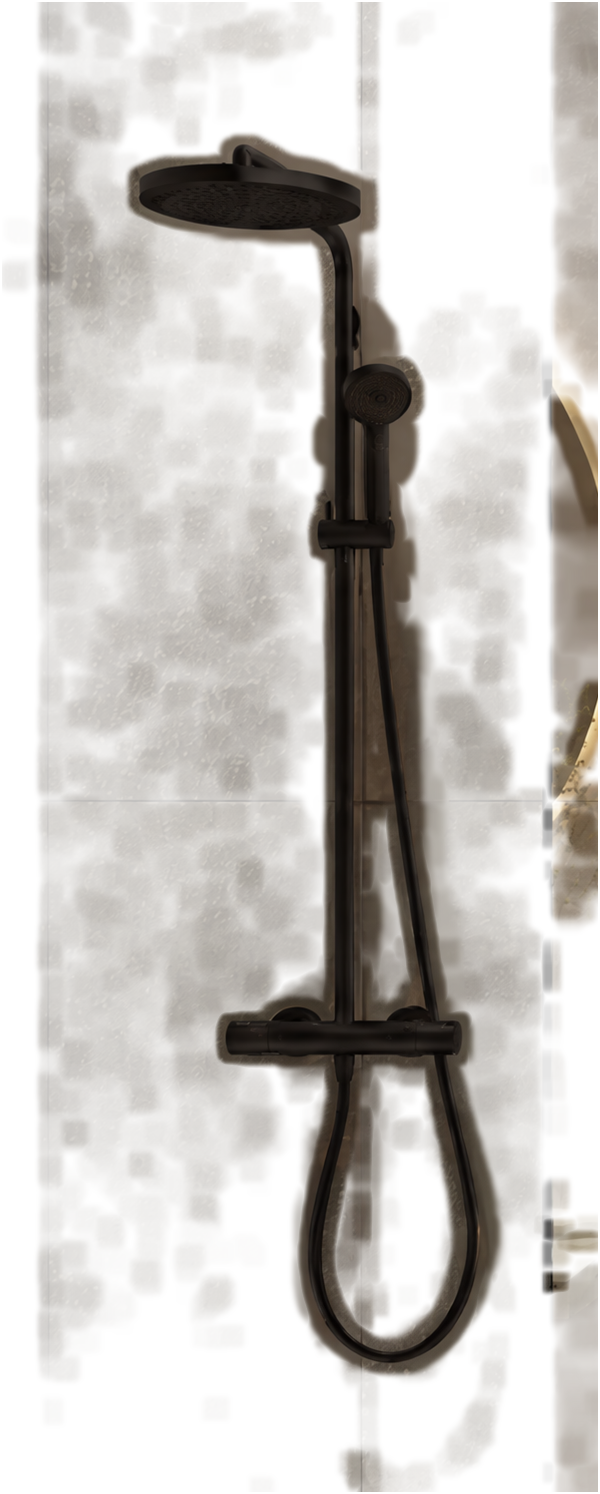
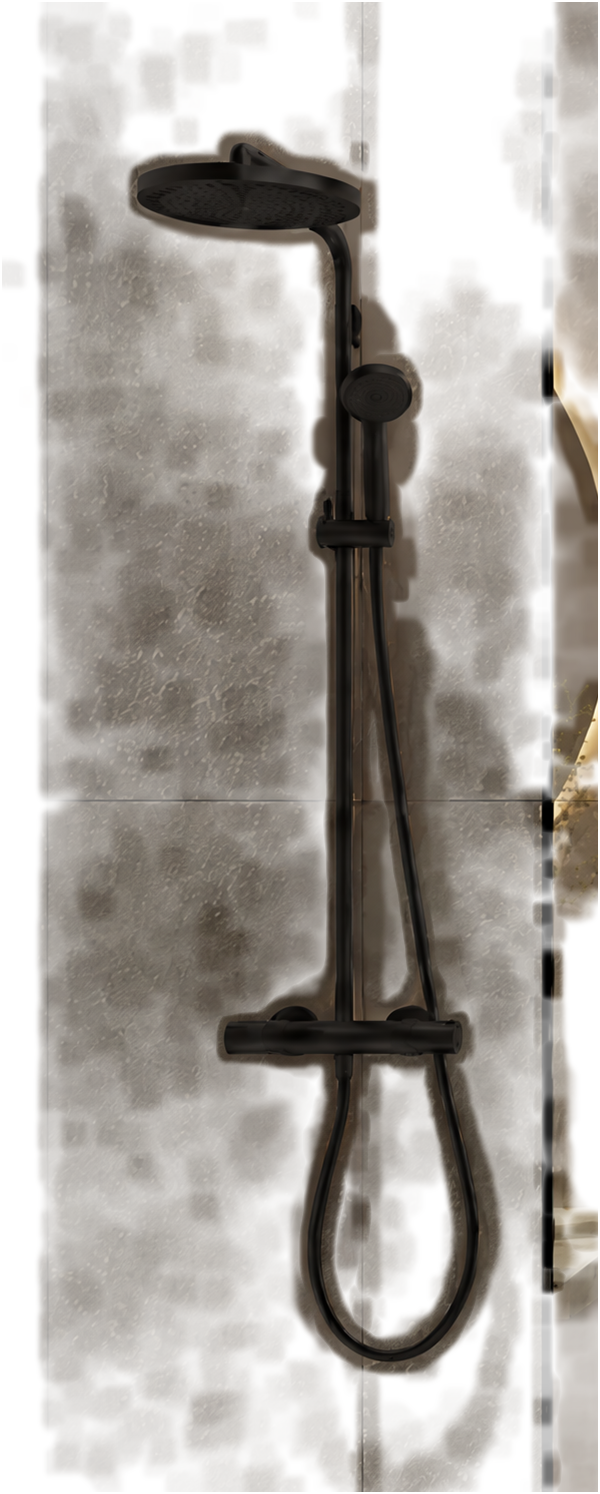
Sifón a prepad vane vo farbe batérií
Čierna batéria je teraz prefarbenie sifónu a krytky prepadu na pomocnom
baterie-black-zaklad (pôvodná generácia čiernych batérií), bronz z nej.
Batérie majú dva nové obdĺžniky v roi, všetky dočistenia na obkladoch
sú pregenerované.

diff --git a/demo/index.html b/demo/index.html
@@ -120,7 +120,7 @@
 
 </div>
 
-<script>/*DATA*/window.KUPELNA = {"sirka":3312,"vyska":2484,"povodny":"img/povodny.jpg","model":"gpt-image-2-5-flare-image-to-image","rozlisenie":"4K","kreditovZaObrazok":16,"kategorie":[{"id":"obklad","nazov":"Obklad stien","typ":"podklad","z":0,"moznosti":[{"id":"povodny","nazov":"Pôvodný obklad","kratko":"Pôvodný obklad","detail":"Svetlý kameň · podľa vizualizácie ST1","nahlad":"img/nahlad-obklad-povodny.jpg"},{"id":"obklad-calacatta","nazov":"Florim I CLASSICI Calacatta Gold","kratko":"Calacatta Gold","detail":"Florim I Classici · gres 1200 × 2400 mm","nahlad":"img/ref-obklad-calacatta-0.jpg","obrazok":"img/obklad-calacatta.jpg"},{"id":"obklad-graphit","nazov":"Florim STONE LIFE Graphit","kratko":"Stone Life Graphit","detail":"Florim Stone Life · gres 1200 × 2400 mm","nahlad":"img/ref-obklad-graphit-0.jpg","obrazok":"img/obklad-graphit.jpg"},{"id":"obklad-travertine","nazov":"Florim AUTHENTIC LUXE Gold Travertine","kratko":"Gold Travertine","detail":"Florim Authentic Luxe · gres 1200 × 2400 mm","nahlad":"img/ref-obklad-travertine-0.jpg","obrazok":"img/obklad-travertine.jpg"}]},{"id":"dlazba","nazov":"Dlažba","typ":"plocha","z":1,"moznosti":[{"id":"povodny","nazov":"Pôvodná dlažba","kratko":"Pôvodná dlažba","detail":"Svetlý kameň · podľa vizualizácie ST1","nahlad":"img/nahlad-dlazba-povodny.jpg","vrstvy":{"*":[{"src":"img/dlazba-povodny-0.png","x":36,"y":2084,"w":2289,"h":400}]}},{"id":"dlazba-graphite","nazov":"Florim STONE LIFE Graphite 600x600","kratko":"Stone Life Graphite","detail":"Florim Stone Life · mat 600 × 600 mm","nahlad":"img/ref-dlazba-graphite-0.jpg","vrstvy":{"*":[{"src":"img/dlazba-graphite-0.png","x":36,"y":2084,"w":2289,"h":400}]}},{"id":"dlazba-amani","nazov":"Florim TIMELESS Amani Grey 600x600","kratko":"Timeless Amani Grey","detail":"Florim Timeless · mat 600 × 600 mm","nahlad":"img/ref-dlazba-amani-0.jpg","vrstvy":{"*":[{"src":"img/dlazba-amani-0.png","x":114,"y":2084,"w":2208,"h":400}]}}]},{"id":"baterie","nazov":"Batérie","typ":"objekt","z":3,"moznosti":[{"id":"povodny","nazov":"Chróm (pôvodné)","kratko":"Chróm (pôvodné)","detail":"Hansgrohe chróm · podľa vizualizácie ST1","nahlad":"img/nahlad-baterie-povodny.jpg"},{"id":"baterie-black","nazov":"Hansgrohe Black matt (Pulsify S Showerpipe 260, Tecturis S 240 Fine, Ecostat Element)","kratko":"Black matt","detail":"Hansgrohe 24237670 · 73372670 · 13347670","nahlad":"img/ref-baterie-black-0.jpg","vrstvy":{"povodny":[{"src":"img/baterie-black--povodny-0.png","x":494,"y":395,"w":600,"h":1494},{"src":"img/baterie-black--povodny-1.png","x":1538,"y":1344,"w":235,"h":239},{"src":"img/baterie-black--povodny-2.png","x":2217,"y":1334,"w":500,"h":754}],"obklad-calacatta":[{"src":"img/baterie-black--obklad-calacatta-0.png","x":494,"y":395,"w":600,"h":1494},{"src":"img/baterie-black--obklad-calacatta-1.png","x":1538,"y":1344,"w":235,"h":239},{"src":"img/baterie-black--obklad-calacatta-2.png","x":2217,"y":1334,"w":500,"h":754}],"obklad-graphit":[{"src":"img/baterie-black--obklad-graphit-0.png","x":494,"y":395,"w":600,"h":1494},{"src":"img/baterie-black--obklad-graphit-1.png","x":1538,"y":1344,"w":235,"h":239},{"src":"img/baterie-black--obklad-graphit-2.png","x":2217,"y":1334,"w":500,"h":754}],"obklad-travertine":[{"src":"img/baterie-black--obklad-travertine-0.png","x":494,"y":395,"w":600,"h":1494},{"src":"img/baterie-black--obklad-travertine-1.png","x":1538,"y":1344,"w":235,"h":239},{"src":"img/baterie-black--obklad-travertine-2.png","x":2217,"y":1334,"w":500,"h":754}]}},{"id":"baterie-bronze","nazov":"Hansgrohe Brushed bronze (Pulsify S Showerpipe 260, Tecturis S 240 Fine, Ecostat Element)","kratko":"Brushed bronze","detail":"Hansgrohe 24237140 · 73372140 · 13347140","nahlad":"img/ref-baterie-bronze-0.jpg","vrstvy":{"povodny":[{"src":"img/baterie-bronze--povodny-0.png","x":494,"y":395,"w":600,"h":1494},{"src":"img/baterie-bronze--povodny-1.png","x":1538,"y":1344,"w":235,"h":239},{"src":"img/baterie-bronze--povodny-2.png","x":2217,"y":1334,"w":500,"h":754}],"obklad-calacatta":[{"src":"img/baterie-bronze--obklad-calacatta-0.png","x":494,"y":395,"w":600,"h":1494},{"src":"img/baterie-bronze--obklad-calacatta-1.png","x":1538,"y":1344,"w":235,"h":239},{"src":"img/baterie-bronze--obklad-calacatta-2.png","x":2217,"y":1334,"w":500,"h":754}],"obklad-graphit":[{"src":"img/baterie-bronze--obklad-graphit-0.png","x":494,"y":395,"w":600,"h":1494},{"src":"img/baterie-bronze--obklad-graphit-1.png","x":1538,"y":1344,"w":235,"h":239},{"src":"img/baterie-bronze--obklad-graphit-2.png","x":2217,"y":1334,"w":500,"h":754}],"obklad-travertine":[{"src":"img/baterie-bronze--obklad-travertine-0.png","x":494,"y":395,"w":600,"h":1494},{"src":"img/baterie-bronze--obklad-travertine-1.png","x":1538,"y":1344,"w":235,"h":239},{"src":"img/baterie-bronze--obklad-travertine-2.png","x":2217,"y":1334,"w":500,"h":754}]}}]},{"id":"umyvadlo","nazov":"Umývadlo","typ":"objekt","z":4,"moznosti":[{"id":"povodny","nazov":"Pôvodné obdĺžnikové","kratko":"Pôvodné obdĺžnikové","detail":"Na dosku · podľa vizualizácie ST1","nahlad":"img/nahlad-umyvadlo-povodny.jpg"},{"id":"umyvadlo-savoy","nazov":"Laufen Savoy 550x380 oválne","kratko":"Savoy oválne","detail":"Laufen H8129440001121 · 550 × 380 mm","nahlad":"img/ref-umyvadlo-savoy-0.jpg","vrstvy":{"povodny":[{"src":"img/umyvadlo-savoy--povodny-0.png","x":1322,"y":1364,"w":700,"h":376}],"obklad-calacatta":[{"src":"img/umyvadlo-savoy--obklad-calacatta-0.png","x":1322,"y":1364,"w":700,"h":376}],"obklad-graphit":[{"src":"img/umyvadlo-savoy--obklad-graphit-0.png","x":1322,"y":1364,"w":700,"h":376}],"obklad-travertine":[{"src":"img/umyvadlo-savoy--obklad-travertine-0.png","x":1322,"y":1364,"w":700,"h":376}]}},{"id":"umyvadlo-okruhle","nazov":"Laufen living SQ 380x380 okrúhle","kratko":"living SQ okrúhle","detail":"Laufen H8114350001121 · Ø 380 mm","nahlad":"img/ref-umyvadlo-okruhle-0.jpg","vrstvy":{"povodny":[{"src":"img/umyvadlo-okruhle--povodny-0.png","x":1322,"y":1364,"w":700,"h":376}],"obklad-calacatta":[{"src":"img/umyvadlo-okruhle--obklad-calacatta-0.png","x":1322,"y":1364,"w":700,"h":376}],"obklad-graphit":[{"src":"img/umyvadlo-okruhle--obklad-graphit-0.png","x":1322,"y":1364,"w":700,"h":376}],"obklad-travertine":[{"src":"img/umyvadlo-okruhle--obklad-travertine-0.png","x":1322,"y":1364,"w":700,"h":376}]}}]},{"id":"zlab","nazov":"Sprchový žľab","typ":"objekt","z":2,"moznosti":[{"id":"povodny","nazov":"FlowLine Zero Nerez","kratko":"FlowLine Zero Nerez","detail":"Kaldewei FlowLine Zero · nerez","nahlad":"img/nahlad-zlab-povodny.jpg"},{"id":"zlab-grafit","nazov":"Kaldewei FlowLine Zero Grafit","kratko":"FlowLine Zero Grafit","detail":"Kaldewei FlowLine Zero · grafit","nahlad":"img/ref-zlab-grafit-0.jpg","vrstvy":{"*":[{"src":"img/zlab-grafit-0.png","x":462,"y":2096,"w":632,"h":107}]}}]}]};/*/DATA*/</script>
+<script>/*DATA*/window.KUPELNA = {"sirka":3312,"vyska":2484,"povodny":"img/povodny.jpg","model":"gpt-image-2-5-flare-image-to-image","rozlisenie":"4K","kreditovZaObrazok":16,"kategorie":[{"id":"obklad","nazov":"Obklad stien","typ":"podklad","z":0,"moznosti":[{"id":"povodny","nazov":"Pôvodný obklad","kratko":"Pôvodný obklad","detail":"Svetlý kameň · podľa vizualizácie ST1","nahlad":"img/nahlad-obklad-povodny.jpg"},{"id":"obklad-calacatta","nazov":"Florim I CLASSICI Calacatta Gold","kratko":"Calacatta Gold","detail":"Florim I Classici · gres 1200 × 2400 mm","nahlad":"img/ref-obklad-calacatta-0.jpg","obrazok":"img/obklad-calacatta.jpg"},{"id":"obklad-graphit","nazov":"Florim STONE LIFE Graphit","kratko":"Stone Life Graphit","detail":"Florim Stone Life · gres 1200 × 2400 mm","nahlad":"img/ref-obklad-graphit-0.jpg","obrazok":"img/obklad-graphit.jpg"},{"id":"obklad-travertine","nazov":"Florim AUTHENTIC LUXE Gold Travertine","kratko":"Gold Travertine","detail":"Florim Authentic Luxe · gres 1200 × 2400 mm","nahlad":"img/ref-obklad-travertine-0.jpg","obrazok":"img/obklad-travertine.jpg"}]},{"id":"dlazba","nazov":"Dlažba","typ":"plocha","z":1,"moznosti":[{"id":"povodny","nazov":"Pôvodná dlažba","kratko":"Pôvodná dlažba","detail":"Svetlý kameň · podľa vizualizácie ST1","nahlad":"img/nahlad-dlazba-povodny.jpg","vrstvy":{"*":[{"src":"img/dlazba-povodny-0.png","x":36,"y":2084,"w":2289,"h":400}]}},{"id":"dlazba-graphite","nazov":"Florim STONE LIFE Graphite 600x600","kratko":"Stone Life Graphite","detail":"Florim Stone Life · mat 600 × 600 mm","nahlad":"img/ref-dlazba-graphite-0.jpg","vrstvy":{"*":[{"src":"img/dlazba-graphite-0.png","x":36,"y":2084,"w":2289,"h":400}]}},{"id":"dlazba-amani","nazov":"Florim TIMELESS Amani Grey 600x600","kratko":"Timeless Amani Grey","detail":"Florim Timeless · mat 600 × 600 mm","nahlad":"img/ref-dlazba-amani-0.jpg","vrstvy":{"*":[{"src":"img/dlazba-amani-0.png","x":114,"y":2084,"w":2208,"h":400}]}}]},{"id":"baterie","nazov":"Batérie","typ":"objekt","z":3,"moznosti":[{"id":"povodny","nazov":"Chróm (pôvodné)","kratko":"Chróm (pôvodné)","detail":"Hansgrohe chróm · podľa vizualizácie ST1","nahlad":"img/nahlad-baterie-povodny.jpg"},{"id":"baterie-black","nazov":"Hansgrohe Black matt (Pulsify S Showerpipe 260, Tecturis S 240 Fine, Ecostat Element)","kratko":"Black matt","detail":"Hansgrohe 24237670 · 73372670 · 13347670","nahlad":"img/ref-baterie-black-0.jpg","vrstvy":{"povodny":[{"src":"img/baterie-black--povodny-0.png","x":494,"y":395,"w":600,"h":1494},{"src":"img/baterie-black--povodny-1.png","x":1538,"y":1314,"w":235,"h":277},{"src":"img/baterie-black--povodny-2.png","x":2217,"y":1314,"w":500,"h":774},{"src":"img/baterie-black--povodny-3.png","x":1571,"y":1659,"w":169,"h":292},{"src":"img/baterie-black--povodny-4.png","x":2929,"y":1848,"w":202,"h":228}],"obklad-calacatta":[{"src":"img/baterie-black--obklad-calacatta-0.png","x":494,"y":395,"w":600,"h":1494},{"src":"img/baterie-black--obklad-calacatta-1.png","x":1538,"y":1314,"w":235,"h":277},{"src":"img/baterie-black--obklad-calacatta-2.png","x":2217,"y":1314,"w":500,"h":774},{"src":"img/baterie-black--obklad-calacatta-3.png","x":1571,"y":1659,"w":169,"h":292},{"src":"img/baterie-black--obklad-calacatta-4.png","x":2929,"y":1848,"w":202,"h":228}],"obklad-graphit":[{"src":"img/baterie-black--obklad-graphit-0.png","x":494,"y":395,"w":600,"h":1494},{"src":"img/baterie-black--obklad-graphit-1.png","x":1538,"y":1314,"w":235,"h":277},{"src":"img/baterie-black--obklad-graphit-2.png","x":2217,"y":1314,"w":500,"h":774},{"src":"img/baterie-black--obklad-graphit-3.png","x":1571,"y":1659,"w":169,"h":292},{"src":"img/baterie-black--obklad-graphit-4.png","x":2929,"y":1848,"w":202,"h":228}],"obklad-travertine":[{"src":"img/baterie-black--obklad-travertine-0.png","x":494,"y":395,"w":600,"h":1494},{"src":"img/baterie-black--obklad-travertine-1.png","x":1538,"y":1314,"w":235,"h":277},{"src":"img/baterie-black--obklad-travertine-2.png","x":2217,"y":1314,"w":500,"h":774},{"src":"img/baterie-black--obklad-travertine-3.png","x":1571,"y":1659,"w":169,"h":292},{"src":"img/baterie-black--obklad-travertine-4.png","x":2929,"y":1848,"w":202,"h":228}]}},{"id":"baterie-bronze","nazov":"Hansgrohe Brushed bronze (Pulsify S Showerpipe 260, Tecturis S 240 Fine, Ecostat Element)","kratko":"Brushed bronze","detail":"Hansgrohe 24237140 · 73372140 · 13347140","nahlad":"img/ref-baterie-bronze-0.jpg","vrstvy":{"povodny":[{"src":"img/baterie-bronze--povodny-0.png","x":494,"y":395,"w":600,"h":1494},{"src":"img/baterie-bronze--povodny-1.png","x":1538,"y":1314,"w":235,"h":277},{"src":"img/baterie-bronze--povodny-2.png","x":2217,"y":1314,"w":500,"h":774},{"src":"img/baterie-bronze--povodny-3.png","x":1571,"y":1659,"w":169,"h":292},{"src":"img/baterie-bronze--povodny-4.png","x":2929,"y":1848,"w":202,"h":228}],"obklad-calacatta":[{"src":"img/baterie-bronze--obklad-calacatta-0.png","x":494,"y":395,"w":600,"h":1494},{"src":"img/baterie-bronze--obklad-calacatta-1.png","x":1538,"y":1314,"w":235,"h":277},{"src":"img/baterie-bronze--obklad-calacatta-2.png","x":2217,"y":1314,"w":500,"h":774},{"src":"img/baterie-bronze--obklad-calacatta-3.png","x":1571,"y":1659,"w":169,"h":292},{"src":"img/baterie-bronze--obklad-calacatta-4.png","x":2929,"y":1848,"w":202,"h":228}],"obklad-graphit":[{"src":"img/baterie-bronze--obklad-graphit-0.png","x":494,"y":395,"w":600,"h":1494},{"src":"img/baterie-bronze--obklad-graphit-1.png","x":1538,"y":1314,"w":235,"h":277},{"src":"img/baterie-bronze--obklad-graphit-2.png","x":2217,"y":1314,"w":500,"h":774},{"src":"img/baterie-bronze--obklad-graphit-3.png","x":1571,"y":1659,"w":169,"h":292},{"src":"img/baterie-bronze--obklad-graphit-4.png","x":2929,"y":1848,"w":202,"h":228}],"obklad-travertine":[{"src":"img/baterie-bronze--obklad-travertine-0.png","x":494,"y":395,"w":600,"h":1494},{"src":"img/baterie-bronze--obklad-travertine-1.png","x":1538,"y":1314,"w":235,"h":277},{"src":"img/baterie-bronze--obklad-travertine-2.png","x":2217,"y":1314,"w":500,"h":774},{"src":"img/baterie-bronze--obklad-travertine-3.png","x":1571,"y":1659,"w":169,"h":292},{"src":"img/baterie-bronze--obklad-travertine-4.png","x":2929,"y":1848,"w":202,"h":228}]}}]},{"id":"umyvadlo","nazov":"Umývadlo","typ":"objekt","z":4,"moznosti":[{"id":"povodny","nazov":"Pôvodné obdĺžnikové","kratko":"Pôvodné obdĺžnikové","detail":"Na dosku · podľa vizualizácie ST1","nahlad":"img/nahlad-umyvadlo-povodny.jpg"},{"id":"umyvadlo-savoy","nazov":"Laufen Savoy 550x380 oválne","kratko":"Savoy oválne","detail":"Laufen H8129440001121 · 550 × 380 mm","nahlad":"img/ref-umyvadlo-savoy-0.jpg","vrstvy":{"povodny":[{"src":"img/umyvadlo-savoy--povodny-0.png","x":1322,"y":1364,"w":700,"h":376}],"obklad-calacatta":[{"src":"img/umyvadlo-savoy--obklad-calacatta-0.png","x":1322,"y":1364,"w":700,"h":376}],"obklad-graphit":[{"src":"img/umyvadlo-savoy--obklad-graphit-0.png","x":1322,"y":1364,"w":700,"h":376}],"obklad-travertine":[{"src":"img/umyvadlo-savoy--obklad-travertine-0.png","x":1322,"y":1364,"w":700,"h":376}]}},{"id":"umyvadlo-okruhle","nazov":"Laufen living SQ 380x380 okrúhle","kratko":"living SQ okrúhle","detail":"Laufen H8114350001121 · Ø 380 mm","nahlad":"img/ref-umyvadlo-okruhle-0.jpg","vrstvy":{"povodny":[{"src":"img/umyvadlo-okruhle--povodny-0.png","x":1322,"y":1364,"w":700,"h":376}],"obklad-calacatta":[{"src":"img/umyvadlo-okruhle--obklad-calacatta-0.png","x":1322,"y":1364,"w":700,"h":376}],"obklad-graphit":[{"src":"img/umyvadlo-okruhle--obklad-graphit-0.png","x":1322,"y":1364,"w":700,"h":376}],"obklad-travertine":[{"src":"img/umyvadlo-okruhle--obklad-travertine-0.png","x":1322,"y":1364,"w":700,"h":376}]}}]},{"id":"zlab","nazov":"Sprchový žľab","typ":"objekt","z":2,"moznosti":[{"id":"povodny","nazov":"FlowLine Zero Nerez","kratko":"FlowLine Zero Nerez","detail":"Kaldewei FlowLine Zero · nerez","nahlad":"img/nahlad-zlab-povodny.jpg"},{"id":"zlab-grafit","nazov":"Kaldewei FlowLine Zero Grafit","kratko":"FlowLine Zero Grafit","detail":"Kaldewei FlowLine Zero · grafit","nahlad":"img/ref-zlab-grafit-0.jpg","vrstvy":{"*":[{"src":"img/zlab-grafit-0.png","x":462,"y":2096,"w":632,"h":107}]}}]}]};/*/DATA*/</script>
 <script>
 (function () {
   const D = window.KUPELNA;

diff --git a/CLAUDE.md b/CLAUDE.md
@@ -24,7 +24,7 @@ Vizualizácie kúpeľní (výmena obkladu, batérií, umývadiel…) cez kie.ai 
 - Zarovnanie: GPT 2.5 v 4K scénu preráma (zoom 0,5–2,5 %, posun až ~40 px), `Zarovnanie.Najdi` nájde mierku a posun voči vstupu úlohy; `Get-Aligned` s kategóriou doladí aj lokálny posun v každom obdĺžniku `roi`.
 - Batérie a umývadlo (`naObkladoch`): variant sa vygeneruje raz na pôvodnom obklade, jeho prvok sa vyreže a tie isté pixely sa vložia na každý obklad; AI podľa `promptNaObklad` len dočistí okolie (`<variant>@<obklad>`), `zostav` potom jadro prvku obnoví z pôvodnej generácie → rovnaká veľkosť a poloha na všetkých obkladoch. Pôvodné batérie sa pred vložením hrubo zamažú (maska z `prazdne-baterie`), inak ostanú priesvitné zvyšky. Prvok sa vyreže rozdielom voči `prazdny`; biele umývadlo na svetlej stene sa farbou oddeliť nedá, preto ho AI natrie na zeleno (`promptKluc`, `<variant>#kluc`). Okrajové pixely prvku sa pred vložením prefarbia z pozadia pôvodného obkladu na pozadie nového (`Prefarbi`; pri batériách pixel po pixeli podľa `prazdne-baterie`), inak AI okolo bronzu nechá svetlú auru. Okraj misy pre `stlpec` sa hľadá v maske prvku, nie v rozdiele (ten zachytí aj prekreslenú stenu).
 - Obklad nesmie meniť policu – Graphit raz „zapustil“ umývadlo do police a na ostatných umývadlách potom ostal obdĺžnikový obrys; prompt obkladov to teraz výslovne zakazuje. Pri problémoch s jedným obkladom stačí `-Ids obklad-x,*@obklad-x -Force`.
-- Bronzové batérie sú prefarbené čierne (`zVariantu`). Sprcha v ST1 je Pulsify S 260 chróm → čierna/bronz sa iba prefarbí. Umývadlá majú v prompte rozmer voči pôvodnému Laufen living SQ 600×340 mm (bez toho majú všetky rovnakú šírku ako pôvodné).
+- Bronzové batérie sú prefarbené čierne (`zVariantu`). Sprcha v ST1 je Pulsify S 260 chróm → čierna/bronz sa iba prefarbí. K batériám patrí aj sifón pod policou a krytka prepadu vane (vlastné obdĺžniky v `roi`), v katalógu nie sú, farba sa len zjednocuje s batériami: `baterie-black` = prefarbenie sifónu a prepadu na pomocnom `baterie-black-zaklad` (pôvodná generácia čiernych batérií, `pomocne` môžu mať `referencie`). Umývadlá majú v prompte rozmer voči pôvodnému Laufen living SQ 600×340 mm (bez toho majú všetky rovnakú šírku ako pôvodné).
 - Dlažba: model v 4K občas prekreslí žľab → `bezObjektov: ["zlab"]` ho z vrstiev dlažby vyreže. `stlpec` pri umývadle vyreže batériu nad okrajom misy (misa je navrchu, batéria za ňou).
 - `index.html` funguje otvorený priamo zo súboru (bez servera); obrázky sa načítajú až pri zobrazení, zvyšok sa prednačíta.
 - PowerShell: premenné nerozlišujú veľkosť písmen (`$base` prepíše parameter `[string]$Base`!); `Add-Type` nevie v tej istej session preložiť zmenený `obrazky.cs` → skripty spúšťať v novom procese (`powershell -NoProfile -ExecutionPolicy Bypass -File …`).

diff --git a/README.md b/README.md
@@ -7,9 +7,9 @@ Demo konfigurátora kúpeľne. Klient si vyberá obklad, dlažbu, batérie, umý
 ## Ako to funguje
 
 - Každý produkt z katalógu sa do pôvodnej vizualizácie (štandard ST1) vložil generáciou cez [kie.ai](https://kie.ai), model `gpt-image-2-5-flare-image-to-image` v rozlíšení 4K (3312 × 2480 px). Jedna generácia stojí 16 kreditov (≈ $0,08) a trvá asi 1–2 min.
-- Kombinácie sa negenerujú. Z každej generácie sa vyreže len zmenená oblasť a stránka ju poskladá nad zvolený obklad. Z 25 generácií je tak 216 kombinácií.
+- Kombinácie sa negenerujú. Z každej generácie sa vyreže len zmenená oblasť a stránka ju poskladá nad zvolený obklad. Z 27 generácií je tak 216 kombinácií.
 - Model v 4K scénu mierne preráma (zväčší alebo posunie o pár pixelov), preto sa každý výsledok pred skladaním automaticky zarovná na podklad.
-- Batérie a umývadlá majú na každom obklade rovnakú veľkosť a polohu: vygenerujú sa raz, tie isté pixely sa vložia na každý obklad a AI len dočistí okolie (zvyšky pôvodných batérií, svetlé okraje). Bronzové batérie sú prefarbené čierne, takže ani zmena farby neposunie tvar.
+- Batérie a umývadlá majú na každom obklade rovnakú veľkosť a polohu: vygenerujú sa raz, tie isté pixely sa vložia na každý obklad a AI len dočistí okolie (zvyšky pôvodných batérií, svetlé okraje). Bronzové batérie sú prefarbené čierne, takže ani zmena farby neposunie tvar. K batériám patrí aj sifón pod umývadlom a krytka prepadu vane, majú rovnakú farbu ako batérie.
 - Sprcha v ST1 je Hansgrohe Pulsify S 260 v chróme, čierna a bronzová sa preto iba prefarbí. Umývadlá majú v prompte rozmer voči pôvodnému Laufen living SQ 600 × 340 mm.
 - Ide o orientačný náhľad. Finálnu vizualizáciu zostavy, ktorú si klient vyberie, je lepšie vygenerovať naraz.
 
